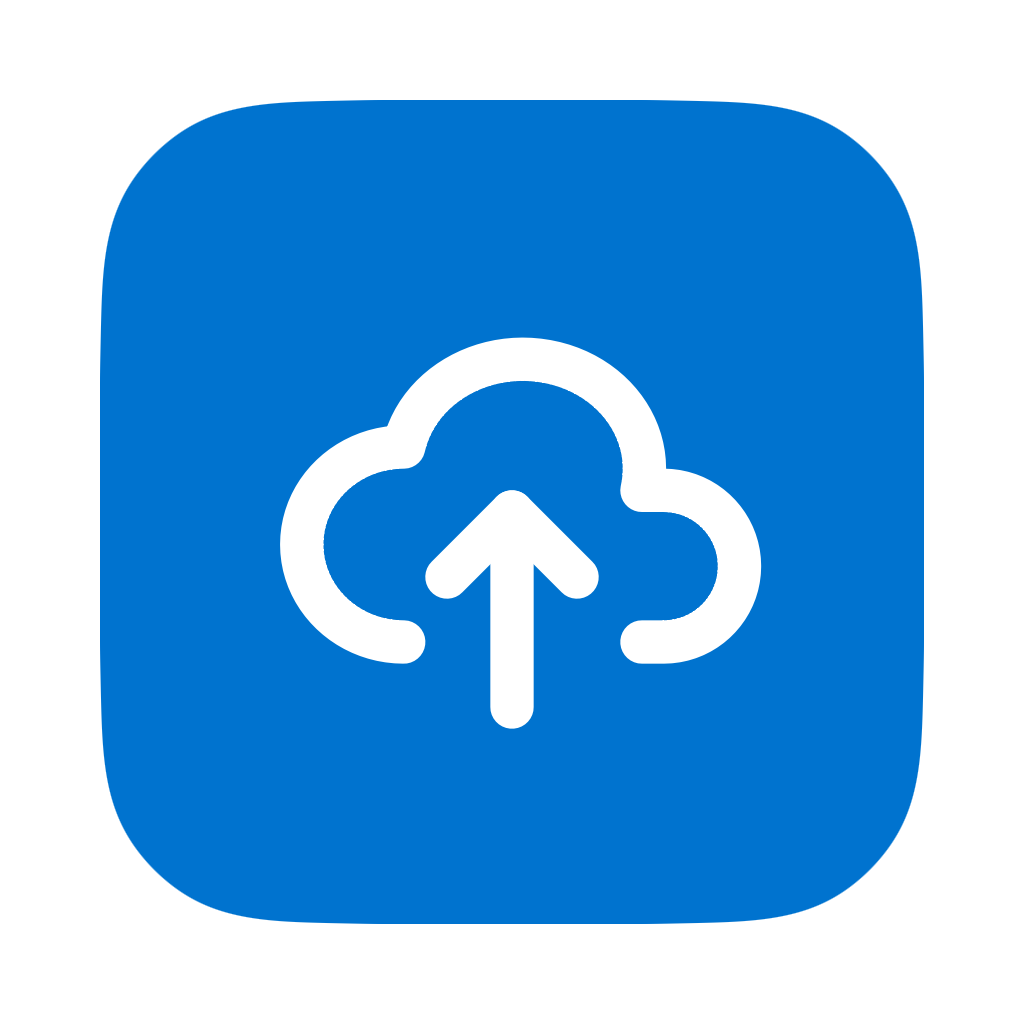
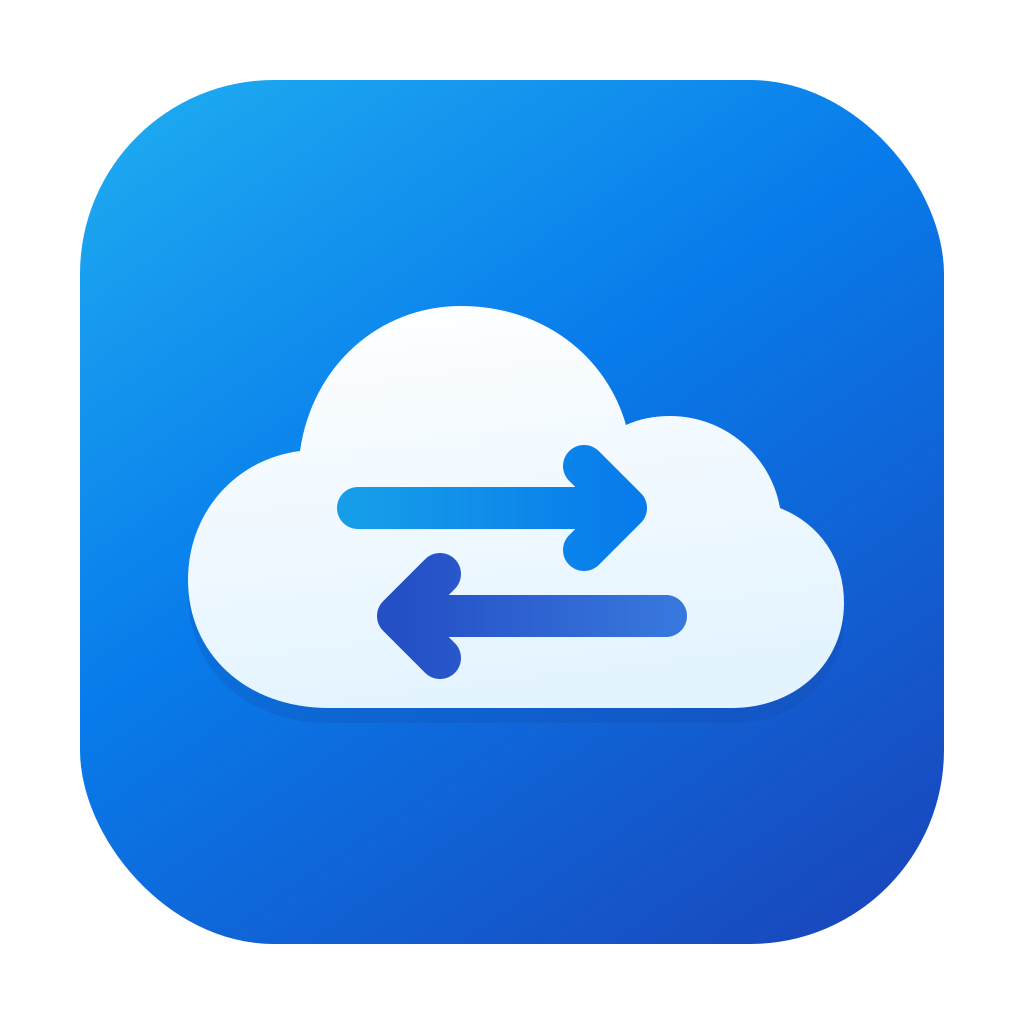
feat: refresh CloudShuttle branding for 1.3.1

diff --git a/design/brand/generate.py b/design/brand/generate.py
@@ -1,0 +1,47 @@
+"""Export the approved vector artwork; requires Python 3, CairoSVG and resvg-py."""
+from pathlib import Path
+import json
+import xml.etree.ElementTree as ET
+import cairosvg
+import resvg_py
+
+HERE = Path(__file__).resolve().parent
+ROOT = HERE.parents[1]
+ASSETS = HERE / 'AppIcon.icon' / 'Assets'
+
+cairosvg.svg2png(url=str(HERE / 'app-icon.svg'), write_to=str(ROOT / 'resources/icon.png'))
+# The color tray icon fills more of its small canvas than the app tile.
+cairosvg.svg2png(url=str(HERE / 'app-icon.svg'), write_to=str(ROOT / 'cmd/cloudshuttle/tray-color.png'), output_width=64, output_height=64)
+
+ns = {'s': 'http://www.w3.org/2000/svg'}
+cloud = ET.parse(ASSETS / '01-cloud.svg').find('s:path', ns).attrib['d']
+arrows = [ET.parse(ASSETS / name).find('s:path', ns).attrib['d'] for name in ('02-transfer-out.svg', '03-transfer-in.svg')]
+# The monochrome mark uses true transparent arrow cutouts. It remains a
+# macOS template, so the system supplies the light/dark menu bar color.
+svg = '<svg xmlns="http://www.w3.org/2000/svg" width="1024" height="1024" viewBox="0 0 1024 1024">'
+svg += '<defs><mask id="transfer"><rect width="1024" height="1024" fill="white"/>'
+for arrow in arrows:
+    svg += f'<path d="{arrow}" fill="none" stroke="black" stroke-width="42" stroke-linecap="round" stroke-linejoin="round"/>'
+svg += f'</mask></defs><path d="{cloud}" fill="currentColor" mask="url(#transfer)"/></svg>'
+(ROOT / 'resources/mark.svg').write_text(svg + '\n')
+# Use a close crop for the 22 pt menu bar glyph; the app tile has wider margins.
+tray = svg.replace('viewBox="0 0 1024 1024"', 'viewBox="156 170 720 720"').replace('currentColor', '#000000')
+(HERE / 'tray-template.svg').write_text(tray + '\n')
+(ROOT / 'cmd/cloudshuttle/tray.png').write_bytes(resvg_py.svg_to_bytes(svg_string=tray, width=44, height=44))
+
+for source in ASSETS.glob('*.svg'):
+    cairosvg.svg2png(url=str(source), write_to=str(source.with_suffix('.png')))
+
+# Preserve the approved silhouettes and colors in separate native layers.
+# Native composition supplies lighting and shadow; source SVGs have none.
+icon = {
+    'groups': [
+        {'layers': [{'image-name': '01-cloud.png', 'name': '01 Cloud', 'glass': False}], 'shadow': {'kind': 'neutral', 'opacity': 0.14}, 'translucency': {'enabled': False, 'value': 0.5}},
+        {'layers': [{'image-name': name.replace('.svg', '.png'), 'name': label, 'glass': False} for name, label in [('02-transfer-out.svg', '02 Outbound'), ('03-transfer-in.svg', '03 Inbound')]], 'shadow': {'kind': 'neutral', 'opacity': 0.0}, 'translucency': {'enabled': False, 'value': 0.5}},
+    ],
+    'supported-platforms': {'squares': 'shared'},
+    'fill-specializations': [{'value': {'linear-gradient': ['srgb:0.14510,0.72549,0.94902,1', 'srgb:0.09804,0.28235,0.74510,1'], 'orientation': {'start': {'x': 0, 'y': 0}, 'stop': {'x': 0.7, 'y': 1}}}}],
+}
+# Icon Composer stores the frontmost group first.
+icon['groups'].reverse()
+(HERE / 'AppIcon.icon/icon.json').write_text(json.dumps(icon, indent=2) + '\n')

diff --git a/cmd/cloudshuttle/tray_icons_test.go b/cmd/cloudshuttle/tray_icons_test.go
@@ -1,6 +1,8 @@
 package main
 
 import (
+	"bytes"
+	"image/png"
 	"testing"
 
 	"github.com/egoist/mygo/ui"
@@ -29,5 +31,50 @@ func TestMenuIconsAreTransparentRetinaTemplates(t *testing.T) {
 		if menuIcons()[svg] == nil {
 			t.Fatal("missing native menu icon")
 		}
+	}
+}
+
+// Template export must preserve both visible ink and transparent cutouts.
+// A luminance-mask exporter can otherwise silently produce an empty PNG.
+func TestBrandTrayImages(t *testing.T) {
+	for _, tc := range []struct {
+		name     string
+		data     []byte
+		size     int
+		template bool
+	}{{"macOS", trayIcon, 44, true}, {"color", trayColorIcon, 64, false}} {
+		t.Run(tc.name, func(t *testing.T) {
+			img, err := png.Decode(bytes.NewReader(tc.data))
+			if err != nil {
+				t.Fatal(err)
+			}
+			b := img.Bounds()
+			if b.Dx() != tc.size || b.Dy() != tc.size {
+				t.Fatalf("unexpected size: %v", b)
+			}
+			ink, clear, color := 0, 0, 0
+			for y := b.Min.Y; y < b.Max.Y; y++ {
+				for x := b.Min.X; x < b.Max.X; x++ {
+					r, g, bl, a := img.At(x, y).RGBA()
+					if a == 0 {
+						clear++
+						continue
+					}
+					ink++
+					if r != 0 || g != 0 || bl != 0 {
+						color++
+					}
+				}
+			}
+			if ink < 100 || clear < 100 {
+				t.Fatalf("expected visible art and transparency: ink=%d clear=%d", ink, clear)
+			}
+			if tc.template && color != 0 {
+				t.Fatal("macOS template must be black and transparent")
+			}
+			if !tc.template && color == 0 {
+				t.Fatal("color tray icon has no color")
+			}
+		})
 	}
 }

diff --git a/cmd/cloudshuttle/main.go b/cmd/cloudshuttle/main.go
@@ -36,6 +36,9 @@ import (
 //go:embed tray.png
 var trayIcon []byte
 
+//go:embed tray-color.png
+var trayColorIcon []byte
+
 // The app's argument, which only the system passes: schedulerArg starts the
 // scheduler instead of the app.
 const schedulerArg = "--scheduler"
@@ -204,7 +207,7 @@ func main() {
 		mygo.App.OnActivate(func(bool) { show() })
 
 		statusIcon, err := mygo.NewTray(mygo.TrayOptions{
-			ID: "main", Icon: trayIcon, IconIsTemplate: true, ToolTip: locales.AppName(),
+			ID: "main", Icon: brandTrayIcon(), IconIsTemplate: runtime.GOOS == "darwin", ToolTip: locales.AppName(),
 		})
 		if err != nil {
 			slog.Warn("tray", "err", err)

diff --git a/cmd/cloudshuttle/tray_icons.go b/cmd/cloudshuttle/tray_icons.go
@@ -5,6 +5,7 @@ import (
 	"image"
 	"image/png"
 	"log/slog"
+	"runtime"
 	"sync"
 
 	"github.com/egoist/mygo"
@@ -39,4 +40,12 @@ func menuIconImage(svg *ui.SVG) *image.RGBA {
 		c.Root().Background(ui.Transparent)
 		ui.Icon(c, svg).Size(16, 16).TextColor(c.Theme().Text)
 	}, 16, 16, 2)
+}
+
+// macOS tints the monochrome template; other systems use the color brand icon.
+func brandTrayIcon() []byte {
+	if runtime.GOOS == "darwin" {
+		return trayIcon
+	}
+	return trayColorIcon
 }

diff --git a/docs/architecture.md b/docs/architecture.md
@@ -18,7 +18,8 @@ internal/icloud    iCloud Drive 中应用自己的文件夹（macOS）
 internal/seal      用密码加密、解密备份文件（Argon2id + XChaCha20-Poly1305）
 internal/domain    模型、校验、错误；不依赖上面任何包
 locales            文案目录（en、zh-Hans）和生成的访问函数
-resources          应用图标及其来源 SVG
+resources          应用图标与单色品牌标志
+design/brand       品牌矢量源稿、分层 Icon Composer 文档及素材导出脚本
 ```
 
 依赖只能自上而下：`view` 和 `island` 调用 `service`，共用 `icons` 和 `format`；`service` 调用 `store`、`engine`、`discovery`、`icloud`、`seal` 和 `domain`；`launchagent` 只依赖 `domain`，由 `cmd` 创建后作为 `service.Registrar` 交给 `service`；`updates` 不依赖应用的其他包，由 `cmd` 创建并交给 `view`（`App.SetUpdater`）；没有包引用 `view` 或 `cmd`。

diff --git a/README.md b/README.md
@@ -1,3 +1,7 @@
+<p align="center">
+  <img src="resources/icon.png" width="128" alt="云梭：白色云朵与蓝色双向传输箭头">
+</p>
+
 # 云梭 CloudShuttle
 
 在本机文件夹、NAS 与云存储之间，轻松复制与同步文件。
@@ -5,11 +9,6 @@
 云梭常驻状态栏，按计划在后台运行。随时查看同步进度与最近结果，需要管理任务时再打开主窗口。
 
 ![云梭总览：任务、存储与最近运行](docs/screenshots/dashboard.png)
-
-<p align="center">
-  <img src="docs/screenshots/tray.png" width="300" alt="云梭状态栏菜单：任务与存储数量、同步状态和最近任务结果">
-</p>
-<p align="center">不打开主窗口，也能掌握同步状态。</p>
 
 <table>
   <tr>
